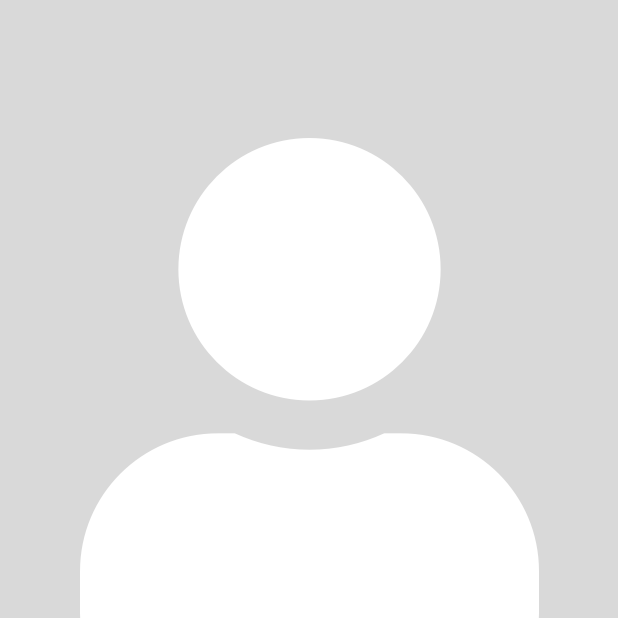
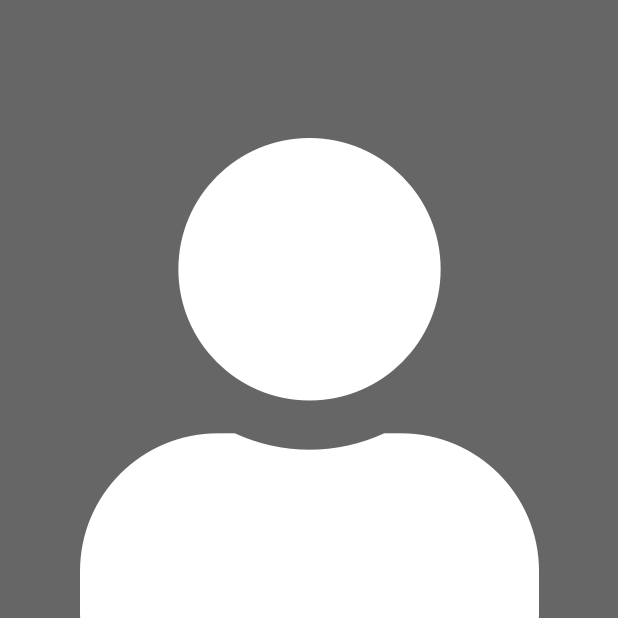
On onboarding UI make profile picture white on dark theme.

diff --git a/lib/components/logo_graphic_header.dart b/lib/components/logo_graphic_header.dart
@@ -8,9 +8,9 @@ class LogoGraphicHeader extends StatelessWidget {
 
   @override
   Widget build(BuildContext context) {
-    String _imageLogo = 'assets/images/default.png';
+    String _imageLogo = 'assets/images/defaultDark.png';
     if (themeController.isDarkModeOn == true) {
-      _imageLogo = 'assets/images/defaultDark.png';
+      _imageLogo = 'assets/images/default_white.png';
     }
     return Hero(
       tag: 'App Logo',
